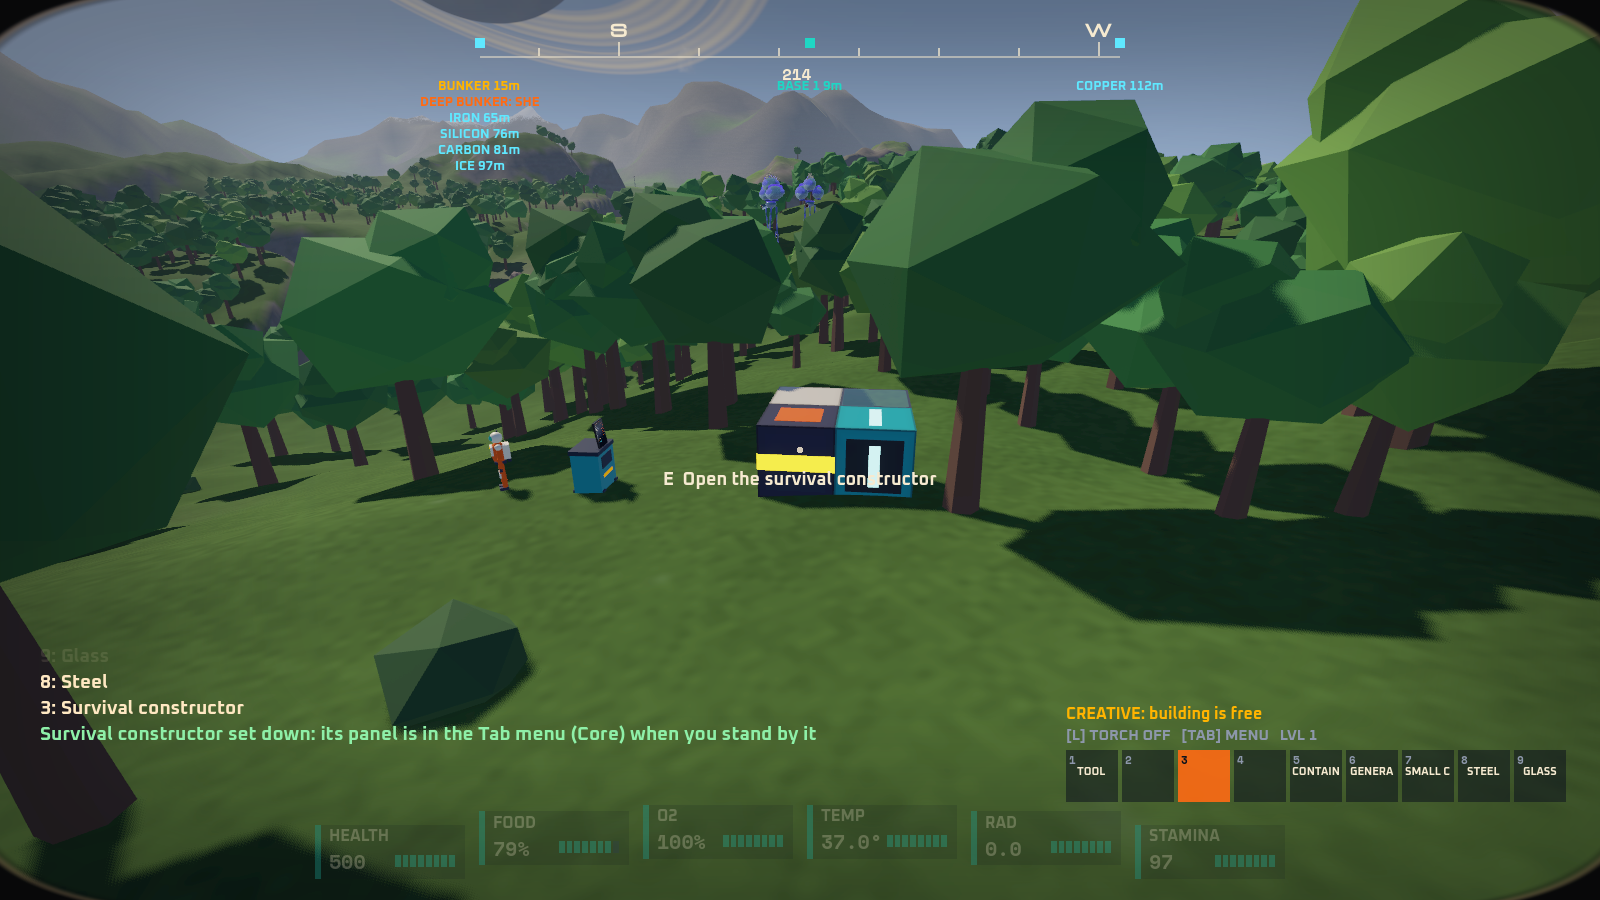
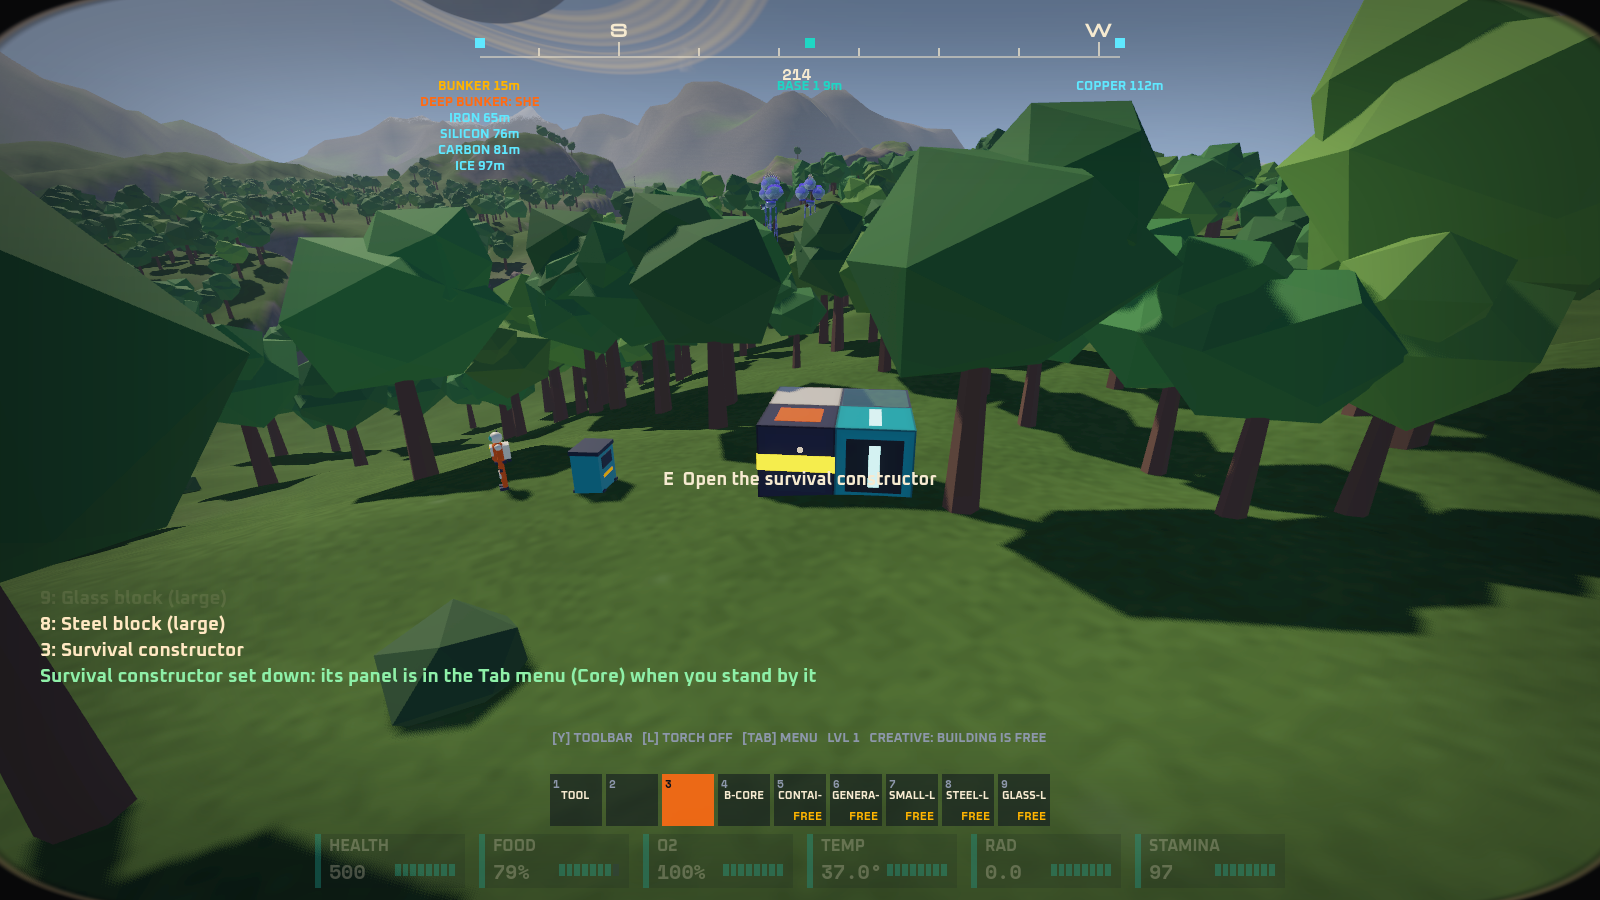
Two drives in the catalogue, block screenshots, a command-chair check, the shape picker on the visor
Data only for drives: a warp drive and warp cell tank for small and capital vessels, hyperdrives
T1 and T2 and a fold crystal tank for capital vessels, warp cells made from common materials.
New staged views: a constructor crafting blocks, a block in hand, a big storage filtered,
a base built from carried stacks.

diff --git a/prototypes/slice/tests/Staging.Blocks.cs b/prototypes/slice/tests/Staging.Blocks.cs
@@ -1,0 +1,85 @@
+using System;
+using System.Collections.Generic;
+using System.Linq;
+using GalHack.Items;
+using Godot;
+using Slice.Items;
+using Slice.Ui;
+using Slice.Vessels;
+using N = System.Numerics;
+using WeatherKind = Weather.Model.WeatherKind;
+
+namespace Slice.Tests;
+
+/// <summary>The views of blocks as items: crafting them, carrying them, the shape picker, a big storage filtered.</summary>
+public sealed partial class Staging
+{
+    /// <summary>A constructor's panel crafting blocks: steel and a container ordered, their sub-parts under them, the list on BLOCK, a tooltip up.</summary>
+    IEnumerable<int> ConstructorBlocks()
+    {
+        _game.Zone.Sky.TimeOfDay = Num("time", 0.33);
+        _game.Zone.Weather.Sim.Snap(WeatherKind.Clear);
+        Hand(("survival-constructor", 1));
+        foreach (int x in Play.ToToolbar("survival-constructor", 2)) yield return x;
+        foreach (int x in Play.CloseMenu()) yield return x;
+        foreach (int x in _drive.WalkTo(_game.Bunker.Ahead(5f), 1f, 20f)) yield return x;
+        Vector3 spot = _game.Zone.GroundAt(_game.Bunker.Ahead(9f, 2f).X, _game.Bunker.Ahead(9f, 2f).Z);
+        foreach (int x in Play.PlaceOnGround(2, spot)) yield return x;
+        Device fab = _game.Zone.Devices.FirstOrDefault();
+        if (fab == null) yield break;
+        fab.Storage.AddAll(new Bill().Add("iron-ore", 160).Add("carbon-ore", 120).Add("copper-ore", 60).Add("silicon-ore", 20).Add(Play.BlockItem("steel", false), 6));
+        foreach (int x in Play.OpenMenu(MenuTab.Core)) yield return x;
+        foreach (int x in Play.Order("core", Play.BlockItem("container", false), 1)) yield return x;
+        foreach (int x in Play.Order("core", Play.BlockItem("steel", false), 5)) yield return x;
+        foreach (int x in _drive.ClickWidget("recipes:core:cat:all")) yield return x;
+        foreach (int x in _drive.ClickWidget("recipes:core:cat:blocks")) yield return x;
+        fab.Tick(2.5);
+        foreach (int x in _drive.Wait(4)) yield return x;
+        if (_game.Menu.RectOf($"order:core:{Play.BlockItem("steel", false)}:1") is Rect2 r)
+            _game.Controls.Mouse = r.Position + new Vector2(-200, 12);
+        foreach (int x in _drive.Wait(30)) yield return x;
+    }
+
+    /// <summary>The visor with a block family in hand: a long name, the count from the chosen source, the shape picker.</summary>
+    IEnumerable<int> HandView()
+    {
+        foreach (int x in BaseView(survival: true)) yield return x;
+        Vessel b0 = _game.Zone.Vessels.FirstOrDefault(v => v.IsBase && !v.IsRuin);
+        if (b0 == null) yield break;
+        _game.FixedCamera = null;
+        string hardened = Play.BlockItem("hardened", false);
+        Hand((hardened, 12));
+        b0.Storage.Add(hardened, 340);
+        foreach (int x in Play.ToToolbar(hardened, 1)) yield return x;
+        foreach (int x in Play.CloseMenu()) yield return x;
+        foreach (int x in Play.Select(1)) yield return x;
+        _game.Builder.ShapeIndex = 3;
+        foreach (int x in _drive.WalkTo(b0.ToWorld(new N.Vector3(0, 0, -9f)), 1f, 20f)) yield return x;
+        foreach (int x in _drive.LookAt(b0.ToWorld(new N.Vector3(0, 0, -1f)), 12)) yield return x;
+        foreach (int x in _drive.Wait(30)) yield return x;
+    }
+
+    /// <summary>A big base storage on the CORE tab, filtered by text, a stack's tooltip up.</summary>
+    IEnumerable<int> StorageFilter()
+    {
+        foreach (int x in BaseView(survival: true)) yield return x;
+        Vessel b0 = _game.Zone.Vessels.FirstOrDefault(v => v.IsBase && !v.IsRuin);
+        if (b0 == null) yield break;
+        _game.FixedCamera = null;
+        b0.Storage.CapacitySu = 2_000_000; // STAGING: a very big base
+        var rng = new Random(7);
+        foreach (ItemDef i in _game.Zone.Data.Items.Items) b0.Storage.Add(i.Id, 1 + rng.Next(i.StackSize * 3));
+        foreach (int x in Play.OpenMenu(MenuTab.Core)) yield return x;
+        foreach (int x in _drive.Wait(2)) yield return x;
+        int pick = _game.Menu.Root.Core.Near().IndexOf(b0);
+        if (pick >= 0) foreach (int x in _drive.ClickWidget($"core:pick:{pick}")) yield return x;
+        foreach (int x in _drive.ClickWidget("storage:filter")) yield return x;
+        _game.Controls.Type(_args.TryGetValue("filter", out string f) ? f : "steel");
+        foreach (int x in _drive.Wait(3)) yield return x;
+        foreach (int x in _drive.ClickWidget("storage:sort")) yield return x; // by name
+        foreach (int x in _drive.Wait(3)) yield return x;
+        IReadOnlyList<int> shown = ItemViews.Get("storage").Visible(b0.StorageGrid);
+        if (shown.Count > 0 && _game.Menu.RectOf($"store:{shown[Math.Min(5, shown.Count - 1)]}") is Rect2 r) _game.Controls.Mouse = r.GetCenter();
+        foreach (int x in _drive.Wait(30)) yield return x;
+    }
+}

diff --git a/prototypes/manufacturing/tests/ItemsTest.cs b/prototypes/manufacturing/tests/ItemsTest.cs
@@ -84,6 +84,7 @@ public partial class ItemsTest : TestBase
         foreach (BlockBill b in _items.Blocks.All)
             foreach (bool small in new[] { true, false })
             {
+                if (!b.On(small)) continue;
                 ItemDef item = b.ItemFor(small);
                 families++;
                 bool ok = item != null && item.Category == ItemCategory.Block && item.Recipe != null && item.StackSize > 0 && item.MassKg > 0 && item.VolumeSu > 0
@@ -98,6 +99,14 @@ public partial class ItemsTest : TestBase
             $"a block item weighs and packs as what it is made of ({steelL.MassKg} kg, {steelL.VolumeSu} SU)");
         Check(_items.BlockItem("core", false).Id == "base-core" && _items.BlockItem("core", true).Id == "vessel-core", "the core block's items are the base core and the small-vessel core");
         Check(_items.BlockItem("container", false).Unlock?.Level == 1, "devices (containers) are items too, unlocked in the tech tree");
+        // The two drives (data only): warp on small and capital vessels, hyperdrive on capital only, each with its own fuel and tank.
+        ItemDef warp = _items.BlockItem("warpdrive", true), hyper = _items.BlockItem("hyperdrive1", false);
+        Check(warp.PlacesOn(StructureClass.Small) && _items.BlockItem("warpdrive", false).PlacesOn(StructureClass.Capital) && _items.BlockItem("warptank", true) != null,
+            "a warp drive and its warp cell tank fit small and capital vessels");
+        Check(hyper.Places.SequenceEqual(new[] { StructureClass.Capital }) && _items.BlockItem("hyperdrive1", true) == null && _items.BlockItem("hyperdrive2", false) != null && _items.BlockItem("foldtank", true) == null,
+            "hyperdrives T1 and T2 and the fold crystal tank are capital vessels only");
+        Check(_items.Item("warp-cell").Recipe.Tier <= 1 && _items.Item("warp-cell").Recipe.Inputs.All(i => i.Item.Rarity == Rarity.Common), "warp cells are made in constructors from common materials");
+        Check(_items.Item("fold-crystal").Uses.Contains("Hyperdrive") && _items.Item("fold-crystal").Uses.Contains("shields"), "fold crystal is hyperdrive fuel and still feeds shields");
         // The constructor tiers make the right blocks.
         Constructor Make(string tier) => new(_items, _items.Machines.Get(tier), SharedStorage.Unbounded(_items, "t"), new WorldRules());
         Constructor survival = Make("survival"), smallFab = Make("small"), large = Make("large");
@@ -179,6 +188,7 @@ public partial class ItemsTest : TestBase
             checkedBlocks++;
             foreach (bool small in new[] { true, false })
             {
+                if (!bill.On(small)) continue;
                 Bill b = bill.For(small);
                 string grid = small ? "small" : "large";
                 var blockers = new List<string>();

diff --git a/prototypes/slice/tests/Staging.Loop.cs b/prototypes/slice/tests/Staging.Loop.cs
@@ -157,16 +157,19 @@ public sealed partial class Staging
         Vector3 dir = face is Dir.NegY or Dir.PosY ? v.ToWorld(new N.Vector3(on.X, 0, on.Z)) - centre : v.ToWorld(new N.Vector3(face.Vec().X, 0, face.Vec().Z)) - centre;
         dir.Y = 0;
         Vector3 stand = at + (dir.LengthSquared() > 0.01f ? dir.Normalized() : Vector3.Back) * back;
-        foreach (int x in _drive.WalkTo(new Vector3(stand.X, 0, stand.Z), 0.6f, 20f)) yield return x;
+        // STAGING: straight there, on the ground beside the face.
+        _game.Survivor.PlaceOutside(_game.Zone.GroundAt(stand.X, stand.Z).ToNumerics() + N.Vector3.UnitY * 0.1f);
+        foreach (int x in _drive.Wait(25)) yield return x;
         foreach (int x in Play.PlaceBlock(slot, v, on, face)) yield return x;
     }
 
-    /// <summary>A base built by hand: its core, a container, a generator, a small constructor, steel and glass, the survival constructor beside it.</summary>
-    IEnumerable<int> BaseView()
+    /// <summary>A base built by hand: its core, a container, a generator, a small constructor, steel and glass, the survival constructor beside it. With survival, from carried block stacks.</summary>
+    IEnumerable<int> BaseView(bool survival = false)
     {
         _game.Zone.Sky.TimeOfDay = Num("time", 0.36);
         _game.Zone.Weather.Sim.Snap(WeatherKind.Clear);
-        _game.Mode = GameMode.Creative; // STAGING: free blocks, everything unlocked
+        if (!survival) _game.Mode = GameMode.Creative; // STAGING: free blocks, everything unlocked
+        else Hand((Play.BlockItem("container", false), 3), (Play.BlockItem("generator", false), 2), (Play.BlockItem("smallfab", false), 2), (Play.BlockItem("steel", false), 40), (Play.BlockItem("glass", false), 12));
         Hand(("base-core", 1), ("survival-constructor", 1));
         foreach (int x in Play.ToToolbar("base-core", 3)) yield return x;
         foreach (int x in Play.ToToolbar("survival-constructor", 2)) yield return x;
@@ -181,7 +184,7 @@ public sealed partial class Staging
         var steps = new (int slot, Int3 on, Dir face)[]
         {
             (7, Int3.Zero, Dir.NegX), (7, Int3.Zero, Dir.PosX), (7, new Int3(-1, 0, 0), Dir.NegX), (4, new Int3(1, 0, 0), Dir.PosX),
-            (5, Int3.Zero, Dir.PosZ), (6, new Int3(-1, 0, 0), Dir.PosZ), (8, Int3.Zero, Dir.PosY), (7, new Int3(-2, 0, 0), Dir.PosY),
+            (5, Int3.Zero, Dir.PosZ), (6, new Int3(-1, 0, 0), Dir.PosZ), (8, new Int3(1, 0, 0), Dir.PosZ), (8, new Int3(-2, 0, 0), Dir.PosZ),
         };
         foreach (var (slot, on, face) in steps)
             foreach (int x in PlaceFrom(b0, slot, on, face, 5f)) yield return x;

diff --git a/prototypes/slice/tests/BuildTest.cs b/prototypes/slice/tests/BuildTest.cs
@@ -268,6 +268,20 @@ public partial class BuildTest : Node
             }
             Check(true, $"{devices} device types on the {(small ? "small" : "large")} grid in all {Orientations.Count} orientations: the same power, CPU, storage, crafting, control and torque; a thruster changes only its axis");
         }
+        // A chair gives no air: only a sealed room does.
+        var room = new Structure(Blocks, Blocks.Grid(GridSize.Small)) { Mode = CoreMode.Capital };
+        Building.Place(room, new Int3(0, -1, 0), Building.Make(room, Blocks.CoreType));
+        for (int x = -1; x <= 1; x++)
+            for (int y = -1; y <= 2; y++)
+                for (int z = -1; z <= 1; z++)
+                    if ((x != 0 || z != 0 || y is -1 or 2) && !(x == 0 && y == -1 && z == 0) && !room.Has(new Int3(x, y, z)))
+                        Building.Place(room, new Int3(x, y, z), Building.Make(room, Blocks.Type("steel")));
+        Int3 chair = new(0, 0, 0);
+        Building.Place(room, chair, Building.Make(room, Blocks.Type("chair")));
+        Check(Rooms.Detect(room).Sealed.Any(r => r.Cells.Contains(chair)), "a command chair inside a sealed shell sits in a sealed room");
+        Building.Remove(room, new Int3(0, 1, 1), null);
+        Check(!Rooms.Detect(room).Sealed.Any(r => r.Cells.Contains(chair)), "open a hole and the room leaks: the chair is no help");
+        Check(Blocks.TryGetType("cockpit", out BlockType old) && old.IsCommandChair && old.IsCockpit, "old blueprints' cockpit id reads as the command chair");
     }
 
     // ---- In the world ----------------------------------------------------------------------------

diff --git a/shared/Items/Core/ItemCatalogue.cs b/shared/Items/Core/ItemCatalogue.cs
@@ -232,16 +232,20 @@ public sealed class ItemCatalogue
             if (ammo != null && Known(ammo, $"{where} ammo").Category != ItemCategory.Ammo)
                 throw new InvalidDataException($"{where}: '{ammo}' is not ammo");
             bool unlocks = e.TryGetProperty("unlock", out JsonElement u);
+            string[] grids = e.TryGetProperty("grids", out JsonElement gr) ? gr.EnumerateArray().Select(x => x.GetString()).ToArray() : new[] { "small", "large" };
+            bool onSmall = grids.Contains("small"), onLarge = grids.Contains("large");
             var bill = new BlockBill
             {
                 BlockId = p.Name,
-                Small = ReadBill(e.GetProperty("small"), where),
-                Large = ReadBill(e.GetProperty("large"), where),
+                Small = onSmall ? ReadBill(e.GetProperty("small"), where) : new Bill(),
+                Large = onLarge ? ReadBill(e.GetProperty("large"), where) : new Bill(),
+                OnSmall = onSmall,
+                OnLarge = onLarge,
                 UniqueOnly = DataJson.Bool(e, "uniqueOnly", false),
                 Ammo = ammo,
                 Family = ParseFamily(DataJson.Str(e, "family", "device"), where),
-                UnlockSmall = unlocks ? ReadUnlock(u, where, "small") : null,
-                UnlockLarge = unlocks ? ReadUnlock(u, where, "large") : null,
+                UnlockSmall = unlocks && onSmall ? ReadUnlock(u, where, "small") : null,
+                UnlockLarge = unlocks && onLarge ? ReadUnlock(u, where, "large") : null,
             };
             AddBlock(bill, small =>
             {

diff --git a/prototypes/manufacturing/tests/ProductionTest.cs b/prototypes/manufacturing/tests/ProductionTest.cs
@@ -614,14 +614,14 @@ public partial class ProductionTest : TestBase
             Constructor gated = Fab("small", Storage(contents: Ores(400)));
             gated.Lock = i => i.Recipe != null && i.Recipe.Tier > 0 ? "needs a large constructor" : null;
             gated.Order(thruster.Id, 1);
-            Check(gated.Blockers.Any(b => b.Contains("Nozzle") && b.Contains("constructor")), $"a sub-part this machine can't make is reported exactly: {string.Join("; ", gated.Blockers)}");
+            Check(gated.Blockers.Any(b => b.Contains("nozzle") && b.Contains("constructor")), $"a sub-part this machine can't make is reported exactly: {string.Join("; ", gated.Blockers)}");
         }
         Constructor lowFab = Fab("small", Storage(contents: Ores(400)));
         Check(lowFab.Order(_items.BlockItem("thruster", false).Id, 1).Status == OrderStatus.NeedsHigherTier, "a large thruster needs a large constructor: the order says so");
         Constructor locked = Fab("small", Storage(contents: Ores(400)));
         locked.Lock = i => i.Id == "nozzle" ? "locked: level 9" : null;
         locked.Order(thruster.Id, 1);
-        Check(!locked.SubParts.Any(j => j.Item.Id == "nozzle") && locked.Blockers.Any(b => b.Contains("Nozzle") && b.Contains("locked: level 9")),
+        Check(!locked.SubParts.Any(j => j.Item.Id == "nozzle") && locked.Blockers.Any(b => b.Contains("nozzle") && b.Contains("locked: level 9")),
             $"a locked sub-part is not queued, and the order says which and why: {string.Join("; ", locked.Blockers)}");
 
         // Cancelling the parent cancels its unstarted auto-parts.

diff --git a/prototypes/slice/tests/PlayerTest.cs b/prototypes/slice/tests/PlayerTest.cs
@@ -561,10 +561,11 @@ public partial class PlayerTest : Node
         GD.Print("-- 9. fly it 500 m and land --");
         if (v.Seat == null) { Fail("the vessel has no seat to fly it from"); yield break; }
         foreach (int x in _drive.Board(v)) yield return x;
-        Check(_game.Survivor.Seated == v, "F at its seat");
+        Check(_game.Survivor.Seated == v, "F at its command chair");
         if (_game.Survivor.Seated != v) yield break;
         foreach (int x in _play.OpenMenu(MenuTab.Core)) yield return x;
         Check(_game.Menu.RectOf("core:power") != null, "the CORE tab shows the vessel: its four numbers and lift margin");
+        Check(!_game.Suit.InSealedRoom, "a command chair in the open gives no air: only a sealed room does");
         foreach (int x in _play.CloseMenu()) yield return x;
         Vector3 start = v.Body.Position.ToGodot();
         Vector3 target = _play.FlatSpot(start, 560f, 0.5f, 0.3f);

diff --git a/prototypes/slice/src/Ui/ConstructorSection.cs b/prototypes/slice/src/Ui/ConstructorSection.cs
@@ -73,6 +73,7 @@ public sealed class ConstructorSection : IMenuSection
         // ---- What it can make -------------------------------------------------------------------
         ItemView view = FilterBar.Build(g, $"recipes:{_key}", new Rect2(o.X, o.Y + 74, area.Size.X, FilterBar.Height), readOnly: _key == "screen");
         var list = view.Apply(Recipes(c), i => c.Storage.Count(i.Id));
+        if (view.Sort == ItemSort.Slot) list = list.OrderBy(i => !c.Knows(i)).ThenBy(i => !p.ItemAllowed(i)).ToList();
         int perPage = 7;
         _scroll = Math.Clamp(_scroll, 0, Math.Max(0, (list.Count - 1) / perPage));
         float y = o.Y + 74 + FilterBar.Height;

diff --git a/prototypes/slice/src/Ui/GridView.cs b/prototypes/slice/src/Ui/GridView.cs
@@ -113,12 +113,12 @@ public static class FilterBar
         ItemGroup.Ores => "ORE",
         ItemGroup.Materials => "MAT",
         ItemGroup.Parts => "PART",
-        ItemGroup.Blocks => "BLOCK",
-        ItemGroup.Devices => "DEVICE",
-        ItemGroup.Ammo => "AMMO",
+        ItemGroup.Blocks => "BLK",
+        ItemGroup.Devices => "DEV",
+        ItemGroup.Ammo => "AMO",
         ItemGroup.Food => "FOOD",
         ItemGroup.Deco => "DECO",
-        _ => "OTHER",
+        _ => "OTH",
     };
 
     /// <summary>Draws (and handles) one view's filter bar in a <see cref="Height"/>-tall strip. Returns the view.</summary>

diff --git a/prototypes/slice/tests/Staging.cs b/prototypes/slice/tests/Staging.cs
@@ -56,6 +56,10 @@ public sealed partial class Staging
             "bunkershot" => BunkerShot(),
             "torch" => Torch(),
             "base" => BaseView(),
+            "blockbase" => BaseView(survival: true),
+            "constructor" => ConstructorBlocks(),
+            "hand" => HandView(),
+            "storage" => StorageFilter(),
             "vessel" => VesselTakeoff(),
             _ => throw new ArgumentException($"no view '{view}'"),
         };
